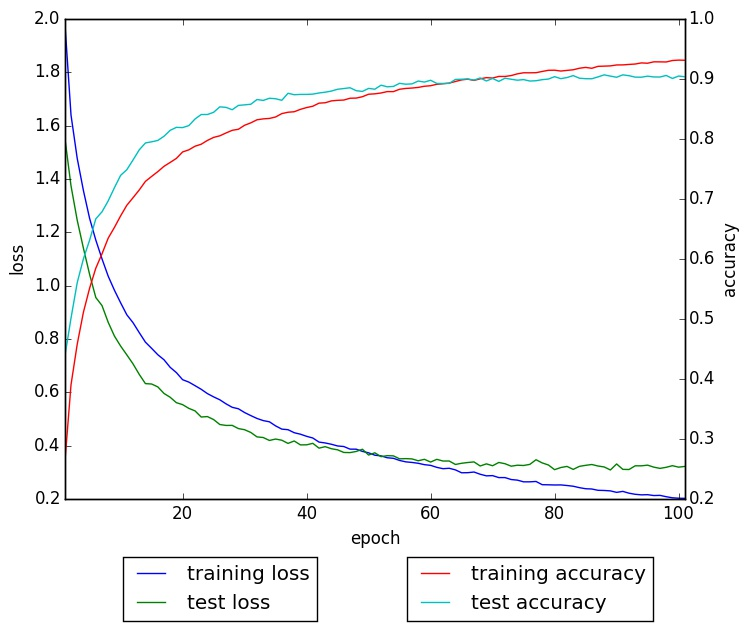
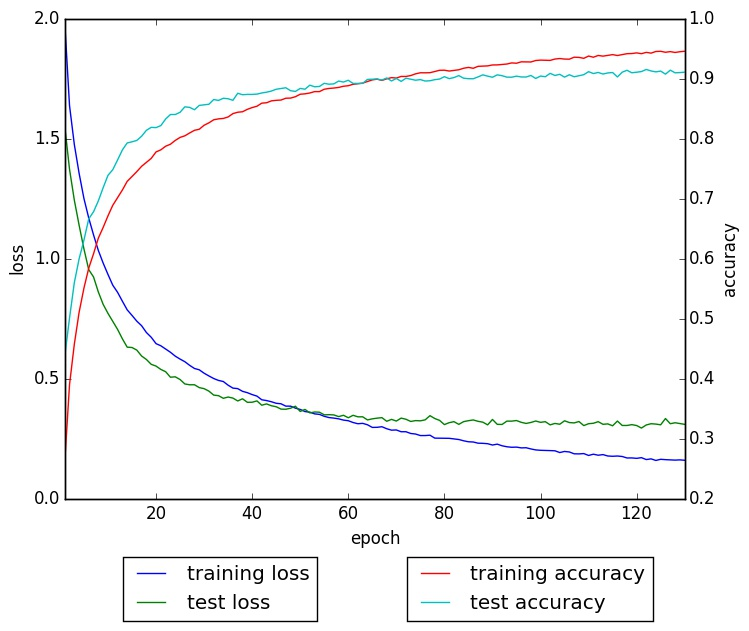
fix README

diff --git a/test.py b/test.py
@@ -8,7 +8,7 @@ from chainer import cuda
 import chainer.functions as F
 from dataset import load_dataset
 from transform import Transform
-import cPickle as pickle
+import pickle
 import numpy as np
 import argparse
 from train import norm
@@ -70,7 +70,7 @@ def validate(test_data, test_labels, N_test, model, args):
         x_batch = test_data[i:i + args.batchsize]
         y_batch = test_labels[i:i + args.batchsize]
 
-        if args.norm:
+        if args.norm == 1:
             x_batch = np.asarray(map(norm, x_batch))
 
         if args.gpu >= 0:
@@ -100,7 +100,7 @@ if __name__ == '__main__':
                         choices=['normal', 'aug', 'single'])
     parser.add_argument('--model', type=str)
     parser.add_argument('--param', type=str)
-    parser.add_argument('--norm', type=bool)
+    parser.add_argument('--norm', type=int)
     parser.add_argument('--batchsize', type=int, default=128)
     parser.add_argument('--gpu', type=int, default=0)
     args = parser.parse_args()
@@ -109,7 +109,7 @@ if __name__ == '__main__':
         cuda.init()
     model_n = os.path.basename(args.model).split('.')[0]
     module = imp.load_source(model_n, args.model)
-    model = pickle.load(open(args.param, 'rb'))
+    model = pickle.load(open(args.param, 'rb'), encoding='latin1')
     if args.gpu >= 0:
         model.to_gpu()
     else:

diff --git a/train.py b/train.py
@@ -156,7 +156,7 @@ def validate(test_data, test_labels, N_test, model, args):
         x_batch = test_data[i:i + args.batchsize]
         y_batch = test_labels[i:i + args.batchsize]
 
-        if args.norm:
+        if args.norm == 1:
             x_batch = np.asarray(map(norm, x_batch))
 
         if args.gpu >= 0:
@@ -187,7 +187,7 @@ if __name__ == '__main__':
     parser.add_argument('--flip', type=int, default=1)
     parser.add_argument('--shift', type=int, default=10)
     parser.add_argument('--size', type=int, default=32)
-    parser.add_argument('--norm', type=int, default=False)
+    parser.add_argument('--norm', type=int, default=0)
     parser.add_argument('--opt', type=str, default='Adam',
                         choices=['MomentumSGD', 'Adam', 'AdaGrad'])
     parser.add_argument('--weight_decay', type=float, default=0.0005)

diff --git a/dataset.py b/dataset.py
@@ -4,13 +4,13 @@
 import os
 import numpy as np
 import glob
-import cPickle
+import pickle
 import argparse
 
 
 def unpickle(file):
     fo = open(file, 'rb')
-    dict = cPickle.load(fo)
+    dict = pickle.load(fo, encoding='latin1')
     fo.close()
 
     return dict

diff --git a/README.md b/README.md
@@ -33,7 +33,9 @@ You can choose model file to be trained from models dir. Cifar10, Network In Net
 
 ## Models
 
-- There are two types of base architectures
+- There are four types of base architectures
+    - Cifar10
+    - NIN (Network In Network)
     - VGG (similar to original VGG-net)
     - VGG_mini (same as [nagadomi](https://github.com/nagadomi/kaggle-cifar10-torch7)'s model)
 - Variants are different at Batch Normalization and Parameterized ReLU
@@ -41,10 +43,21 @@ You can choose model file to be trained from models dir. Cifar10, Network In Net
     - ABN: Batch Normalization for all convolutional layers
     - PReLU: Parameterized ReLU for all activation functions
 
-- VGG_mini_PReLU doesn't perform well.
-- Default setting (`$ python train.py`)  produces the below result:
+- VGG_mini_PReLU didn't perform well
+- Default setting (`$ python train.py`) is VGG_mini_ABN, and it performed the below result (90.08% accuracy at epoch 120):
 
 ![loss curve](loss.jpg)
+
+I don't know why but `chainer.functions.accuracy` function returns a little better value. So I tested experimental results with `test.py`.
+
+## Test
+
+```
+$ python test.py --eval normal \
+--model results/VGG_mini_ABN/VGG_mini_ABN.py \
+--param results/VGG_mini_ABN/VGG_mini_ABN_Adam_epoch_100.chainermodel \
+--norm 0 --batchsize 128 --gpu 0
+```
 
 ## Draw Loss Curve
 
